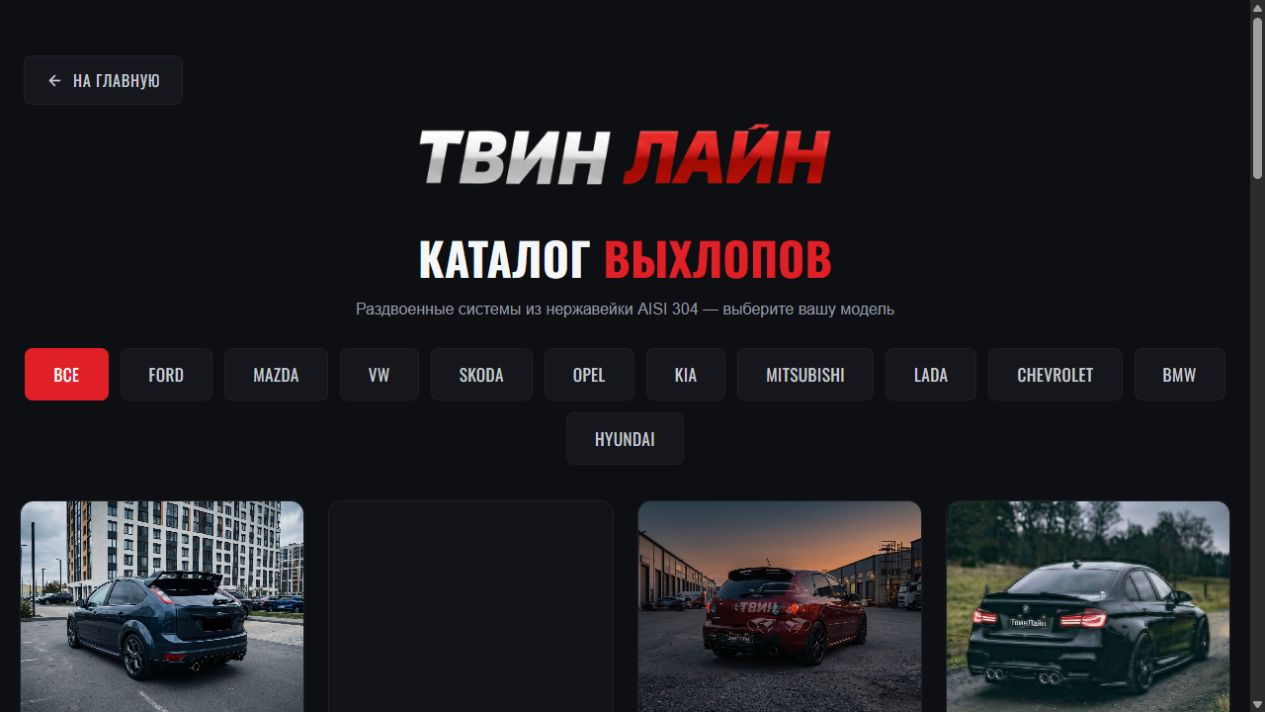
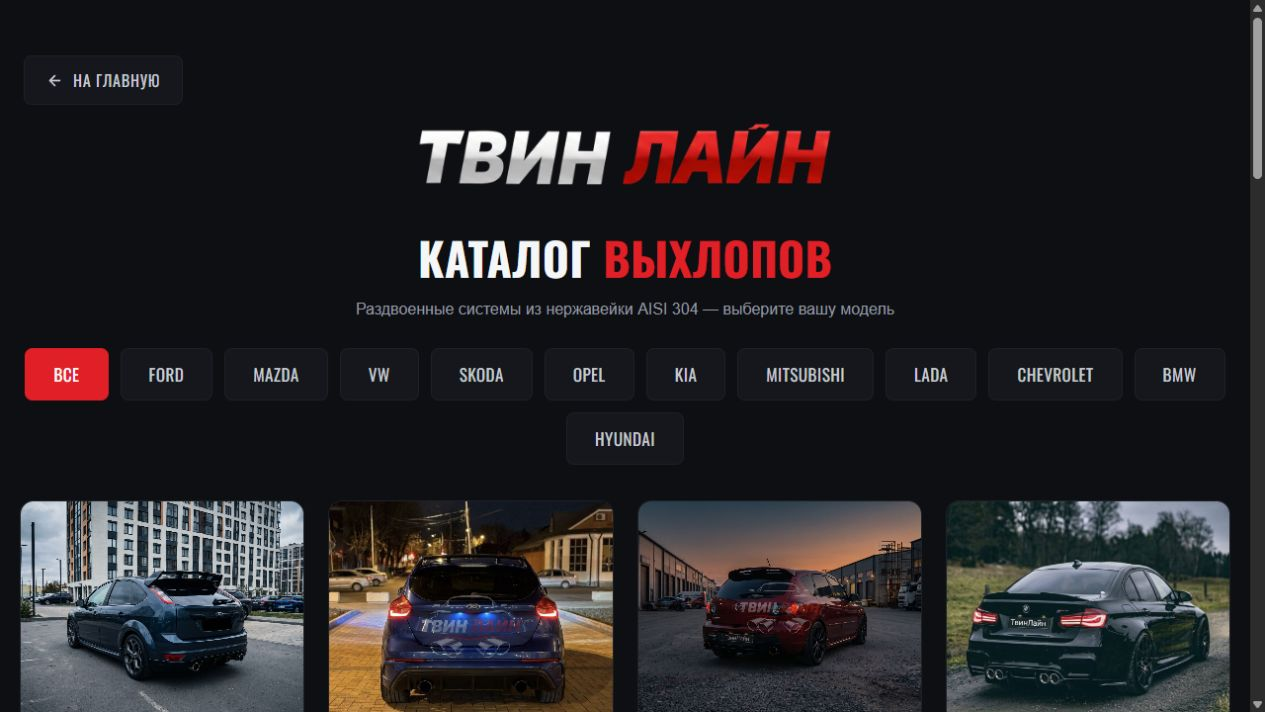
Enhance portfolio motion and contact flow

Changed region(s): [[0.2466, 0.7107, 0.4933, 1.0]]

diff --git a/src/styles.css b/src/styles.css
@@ -52,8 +52,8 @@ h1 { max-width: 11.5ch; margin-bottom: 0; font-size: clamp(2.45rem, 12vw, 7.4rem
 h1 em { position: relative; display: inline-block; color: var(--cobalt); font-style: normal; }
 h1 em::after { position: absolute; z-index: -1; right: -0.06em; bottom: -0.09em; left: -0.04em; height: 0.17em; background: var(--acid); transform: rotate(-2deg); content: ''; }
 .hero-aside { position: relative; z-index: 1; max-width: 27rem; align-self: end; }
-.hero-portrait { display: grid; grid-template-columns: 8.9rem 1fr; gap: 0.9rem; align-items: end; margin: 0 0 1.3rem; }
-.hero-portrait img { width: 8.9rem; aspect-ratio: 1; border: var(--line); border-radius: 50% 50% 10px 50%; object-fit: cover; box-shadow: 6px 6px 0 var(--coral); }
+.hero-portrait { display: grid; grid-template-columns: minmax(11.5rem, 15.5rem) 1fr; gap: 1rem; align-items: end; margin: 0 0 1.3rem; }
+.hero-portrait img { width: 100%; aspect-ratio: 4 / 5; border: var(--line); border-radius: 46% 46% 10px 46%; object-fit: cover; object-position: center 18%; box-shadow: 8px 8px 0 var(--coral); }
 .hero-portrait figcaption { display: grid; gap: 0.42rem; padding-bottom: 0.35rem; font: 600 0.62rem/1.35 var(--mono); letter-spacing: 0.04em; text-transform: uppercase; }
 .hero-portrait figcaption strong { font: 700 0.88rem/1.1 var(--display); letter-spacing: -0.06em; text-transform: none; }
 .hero-portrait figcaption span { color: var(--muted); }
@@ -66,10 +66,16 @@ h1 em::after { position: absolute; z-index: -1; right: -0.06em; bottom: -0.09em;
 .hero-signal { position: absolute; top: 24%; right: clamp(1.25rem, 8vw, 9rem); z-index: 2; display: grid; width: 7.8rem; aspect-ratio: 1; place-content: center; border: var(--line); border-radius: 50%; color: var(--milk); background: var(--ink); text-align: center; transform: rotate(10deg); box-shadow: 6px 6px 0 var(--acid); }
 .hero-signal strong { font: 800 3.6rem/0.75 var(--display); letter-spacing: -0.12em; }
 .hero-signal span { margin-top: 0.6rem; font: 600 0.52rem/1.25 var(--mono); letter-spacing: 0.08em; text-transform: uppercase; }
+.hero-stickers { position: absolute; z-index: 2; inset: 0; pointer-events: none; }
+.hero-sticker { position: absolute; display: grid; place-items: center; border: var(--line); color: var(--ink); font: 700 0.67rem/1 var(--mono); letter-spacing: 0.04em; box-shadow: 4px 4px 0 var(--ink); }
+.hero-sticker--roi { right: 2rem; bottom: 18%; width: 3.4rem; height: 3.4rem; border-radius: 50%; background: var(--acid); transform: rotate(-12deg); }
+.hero-sticker--arrow { right: 15%; bottom: 8%; width: 2.65rem; height: 2.65rem; border-radius: 8px; background: var(--milk); font: 800 1.35rem/1 var(--display); transform: rotate(9deg); }
+.hero-sticker--spark { top: 18%; left: 53%; width: 2.45rem; height: 2.45rem; border-radius: 50%; color: var(--milk); background: var(--coral); font-size: 1.2rem; transform: rotate(-16deg); }
 .hero-note { display: grid; gap: 0.28rem; align-self: end; margin-top: 3rem; padding-top: 1rem; border-top: var(--line); font: 600 0.62rem/1.4 var(--mono); letter-spacing: 0.07em; text-transform: uppercase; }
 .hero-note span { color: var(--muted); }.hero-note strong { max-width: 42ch; }
-.signal-strip { display: flex; min-height: 54px; align-items: center; overflow: hidden; border-bottom: var(--line); color: var(--milk); background: var(--ink); white-space: nowrap; }
-.signal-track { display: flex; width: max-content; align-items: center; gap: clamp(0.85rem, 2.3vw, 2rem); padding-right: clamp(0.85rem, 2.3vw, 2rem); animation: signal-marquee 24s linear infinite; }
+.signal-strip { display: flex; width: 100vw; min-height: 54px; align-items: center; margin-left: calc(50% - 50vw); overflow: hidden; border-bottom: var(--line); color: var(--milk); background: var(--ink); white-space: nowrap; }
+.signal-track { display: flex; width: max-content; align-items: stretch; animation: signal-marquee 22s linear infinite; will-change: transform; }
+.signal-group { display: flex; min-width: 100vw; align-items: center; justify-content: space-around; gap: clamp(0.85rem, 2.3vw, 2rem); padding: 0 clamp(1rem, 3vw, 3rem); }
 .signal-strip span { font: 600 clamp(0.65rem, 1.3vw, 0.84rem)/1 var(--mono); letter-spacing: 0.1em; text-transform: uppercase; }.signal-strip i { color: var(--acid); font-style: normal; }
 
 .section { padding: 5.3rem 1.25rem; }
@@ -87,9 +93,10 @@ h1 em::after { position: absolute; z-index: -1; right: -0.06em; bottom: -0.09em;
 .gallery-controls { display: grid; grid-template-columns: 2rem minmax(0, 1fr) 2rem; align-items: center; gap: 0.55rem; margin-top: 1rem; }.gallery-thumbs { display: flex; gap: 0.45rem; min-width: 0; overflow-x: auto; padding: 0.12rem 0.1rem; scrollbar-width: thin; }.gallery-arrow, .gallery-thumb { appearance: none; cursor: pointer; }.gallery-arrow { display: grid; width: 2rem; height: 2rem; place-items: center; padding: 0; border: var(--line); border-radius: 50%; color: var(--ink); background: var(--milk); font-weight: 800; transition: background 180ms ease, color 180ms ease, transform 180ms ease; }.gallery-arrow:hover { color: var(--milk); background: var(--ink); transform: rotate(-8deg); }.gallery-thumb { flex: 0 0 clamp(3.3rem, 8vw, 5.35rem); overflow: hidden; padding: 0; border: 2px solid transparent; border-radius: 4px; background: var(--paper); opacity: 0.58; transition: border-color 180ms ease, opacity 180ms ease, transform 180ms ease; }.gallery-thumb img { width: 100%; aspect-ratio: 16 / 9; object-fit: cover; }.gallery-thumb:hover, .gallery-thumb.is-active { border-color: var(--ink); opacity: 1; }.gallery-thumb:hover { transform: translateY(-3px); }.gallery-caption { margin: 0.65rem 0 0; color: var(--muted); font: 500 0.6rem/1.45 var(--mono); }
 .case-copy { align-self: center; }.case-meta { display: flex; justify-content: space-between; margin-bottom: 1.1rem; padding: 0.62rem 0; border-top: var(--line); border-bottom: var(--line-soft); color: var(--muted); font: 600 0.58rem/1.2 var(--mono); letter-spacing: 0.08em; text-transform: uppercase; }.case-copy h3, .service h3, .process-list h3 { font-family: var(--display); font-weight: 700; letter-spacing: -0.075em; }.case-copy h3 { margin-bottom: 0.9rem; font-size: clamp(1.75rem, 7vw, 3.15rem); line-height: 0.98; }.case-summary { color: #2f3237; line-height: 1.7; }.case-contribution { margin: 1rem 0 0; padding: 0.85rem 0.9rem; border-left: 5px solid var(--coral); background: var(--paper); font-size: 0.87rem; font-weight: 800; line-height: 1.55; }.delivered { margin-top: 1.8rem; }.delivered h4 { margin: 0 0 0.75rem; color: var(--cobalt); font: 600 0.62rem/1 var(--mono); letter-spacing: 0.1em; text-transform: uppercase; }.delivered ul { margin: 0; padding: 0; list-style: none; }.delivered li { display: flex; gap: 0.65rem; padding: 0.38rem 0; color: var(--muted); font-size: 0.87rem; }.delivered li::before { color: var(--coral); content: '✦'; }.case-actions { display: flex; flex-wrap: wrap; align-items: center; gap: 1.25rem; margin-top: 1.8rem; }.quiet-link { display: inline-flex; min-height: 32px; align-items: center; color: var(--muted); font-size: 0.78rem; text-decoration: underline; text-decoration-color: var(--cobalt); text-decoration-thickness: 2px; text-underline-offset: 0.3rem; }
 
-.services { border-top: var(--line); border-bottom: var(--line); background: var(--acid); }.section-heading.compact { max-width: 54rem; }.service-list { display: grid; border-top: var(--line); }.service { display: grid; grid-template-columns: 2.6rem 1fr; gap: 0 0.65rem; padding: 1.65rem 0; border-top: var(--line); }.service:first-child { border-top: 0; }.service > span, .process-list > li > span { color: var(--coral); font: 600 0.62rem/1.1 var(--mono); letter-spacing: 0.1em; }.service h3 { margin-bottom: 0.65rem; font-size: 1.5rem; line-height: 1; }.service p { grid-column: 2; max-width: 29rem; margin-bottom: 0; font-size: 0.89rem; line-height: 1.65; }
+.services { border-top: var(--line); border-bottom: var(--line); background: var(--paper); }.section-heading.compact { max-width: 54rem; }.service-list { display: grid; border-top: var(--line); }.service { display: grid; grid-template-columns: 2.6rem 1fr; gap: 0 0.65rem; padding: 1.65rem 0; border-top: var(--line); }.service:first-child { border-top: 0; }.service > span, .process-list > li > span { color: var(--coral); font: 600 0.62rem/1.1 var(--mono); letter-spacing: 0.1em; }.service h3 { margin-bottom: 0.65rem; font-size: 1.5rem; line-height: 1; }.service p { grid-column: 2; max-width: 29rem; margin-bottom: 0; font-size: 0.89rem; line-height: 1.65; }
 .process { background: var(--paper); border-bottom: var(--line); }.process-list { margin: 0; padding: 0; list-style: none; }.process-list li { display: grid; grid-template-columns: 2.6rem 1fr; gap: 0.65rem; padding: 1.45rem 0; border-top: var(--line); }.process-list h3 { margin-bottom: 0.5rem; font-size: 1.25rem; line-height: 1; }.process-list p { max-width: 34rem; margin-bottom: 0; color: var(--muted); font-size: 0.9rem; line-height: 1.65; }
 .contact { position: relative; overflow: hidden; border-top: var(--line); color: var(--milk); background: var(--ink); }.contact::before { position: absolute; right: -5rem; bottom: -6rem; width: 19rem; aspect-ratio: 1; border-radius: 50%; background: var(--cobalt); content: ''; }.contact .eyebrow { color: var(--acid); }.contact h2 { position: relative; z-index: 1; max-width: 15ch; }.contact-copy { position: relative; z-index: 1; max-width: 34rem; margin-bottom: 2rem; color: #c4c5c7; line-height: 1.7; }.contact-button { position: relative; z-index: 1; display: inline-flex; min-height: 54px; align-items: center; gap: 0.75rem; padding: 0 1.25rem; border: var(--line); border-radius: 999px; color: var(--ink); background: var(--acid); box-shadow: 5px 5px 0 var(--coral); font-size: 0.86rem; font-weight: 800; transition: transform 180ms ease, box-shadow 180ms ease; }.contact-button:hover { box-shadow: 0 0 0 var(--coral); transform: translate(5px, 5px); }.contact-button.is-disabled { cursor: not-allowed; opacity: 0.58; }.contact-todo { position: relative; z-index: 1; display: block; margin-top: 0.8rem; color: #a6a8aa; font-size: 0.66rem; }
+.floating-contact { position: fixed; right: clamp(1rem, 3vw, 2.5rem); bottom: clamp(1rem, 3vw, 2.25rem); z-index: 40; display: inline-flex; min-height: 48px; align-items: center; gap: 0.55rem; padding: 0.65rem 0.9rem; border: var(--line); border-radius: 999px; color: var(--milk); background: var(--ink); box-shadow: 5px 5px 0 var(--coral); font-size: 0.76rem; font-weight: 800; transition: transform 180ms ease, box-shadow 180ms ease; }.floating-contact:hover { box-shadow: 0 0 0 var(--coral); transform: translate(5px, 5px); }.floating-contact svg { width: 16px; }.floating-contact.is-disabled { display: none; }.floating-contact-dot { width: 0.55rem; height: 0.55rem; border-radius: 50%; background: var(--acid); box-shadow: 0 0 0 0 color-mix(in srgb, var(--acid) 56%, transparent); animation: contact-ping 2.1s ease-out infinite; }
 .footer { display: flex; justify-content: space-between; gap: 1rem; padding: 1.35rem 1.25rem; color: var(--milk); background: var(--ink); font: 600 0.59rem/1.35 var(--mono); letter-spacing: 0.08em; text-transform: uppercase; }.footer a { color: var(--acid); }
 a:focus-visible, .is-disabled:focus-visible, .gallery-arrow:focus-visible, .gallery-thumb:focus-visible { outline: 3px solid var(--cobalt); outline-offset: 4px; }
 
@@ -97,7 +104,7 @@ a:focus-visible, .is-disabled:focus-visible, .gallery-arrow:focus-visible, .gall
 .motion-ready [data-reveal].is-visible { opacity: 1; transform: translateY(0); }
 .motion-ready .hero-copy { transition-delay: 80ms; }.motion-ready .hero-aside { transition-delay: 240ms; }.motion-ready .hero-note { transition-delay: 380ms; }
 .motion-ready .hero-signal { transform: rotate(10deg) translateY(28px) scale(.82); transition-delay: 170ms; }.motion-ready .hero-signal.is-visible { transform: rotate(10deg) translateY(0) scale(1); }
-.motion-ready .hero::before { animation: blue-drift 10s ease-in-out infinite; }.motion-ready .hero-signal.is-visible { animation: signal-float 4s ease-in-out 900ms infinite; }.motion-ready .hero-portrait img { animation: portrait-pop 900ms cubic-bezier(.16, 1, .3, 1) 360ms both; }
+.motion-ready .hero::before { animation: blue-drift 10s ease-in-out infinite; }.motion-ready .hero-signal.is-visible { animation: signal-float 4s ease-in-out 900ms infinite; }.motion-ready .hero-portrait img { animation: portrait-pop 900ms cubic-bezier(.16, 1, .3, 1) 360ms both; }.motion-ready .hero-sticker--roi { animation: sticker-drift 5.2s ease-in-out infinite; }.motion-ready .hero-sticker--arrow { animation: sticker-drift 4.4s ease-in-out 500ms infinite reverse; }.motion-ready .hero-sticker--spark { animation: sticker-spin 7s linear infinite; }
 .motion-ready .case[data-reveal] { transition-delay: 80ms; }.motion-ready .case:nth-child(2n)[data-reveal] { transition-delay: 150ms; }
 .browser:hover { transform: perspective(1000px) translate(-5px, -5px) rotate(-0.5deg); }.case:nth-child(even) .browser:hover { transform: perspective(1000px) translate(-5px, -5px) rotate(0.5deg); }
 
@@ -105,6 +112,9 @@ a:focus-visible, .is-disabled:focus-visible, .gallery-arrow:focus-visible, .gall
 @keyframes blue-drift { 0%, 100% { transform: translate3d(0, 0, 0) scale(1); } 50% { transform: translate3d(-2.5%, 2%, 0) scale(1.045); } }
 @keyframes signal-float { 0%, 100% { transform: rotate(10deg) translateY(0) scale(1); } 50% { transform: rotate(5deg) translateY(-10px) scale(1.03); } }
 @keyframes portrait-pop { from { transform: rotate(-5deg) scale(.75); opacity: 0; } to { transform: rotate(0) scale(1); opacity: 1; } }
+@keyframes sticker-drift { 0%, 100% { translate: 0 0; } 50% { translate: 0 -12px; } }
+@keyframes sticker-spin { to { rotate: 360deg; } }
+@keyframes contact-ping { 0% { box-shadow: 0 0 0 0 color-mix(in srgb, var(--acid) 65%, transparent); } 70%, 100% { box-shadow: 0 0 0 9px transparent; } }
 
 @media (min-width: 720px) {
   .header, .hero, .section, .footer { padding-right: 3rem; padding-left: 3rem; }
@@ -120,5 +130,5 @@ a:focus-visible, .is-disabled:focus-visible, .gallery-arrow:focus-visible, .gall
 @media (min-width: 1100px) {
   .header, .hero, .section, .footer { padding-right: clamp(4rem, 7vw, 8rem); padding-left: clamp(4rem, 7vw, 8rem); }.header { min-height: 84px; }.hero { min-height: calc(100vh - 84px); padding-top: 2.2rem; padding-bottom: 2rem; }.hero-copy { margin: 2.5rem 0; }.hero-signal { right: 7%; width: 9.7rem; }.hero-signal strong { font-size: 4.5rem; }.section { padding-top: 8rem; padding-bottom: 8rem; }.positioning { padding-top: 7rem; padding-bottom: 5rem; }.case-list { gap: 9rem; }.process { display: grid; grid-template-columns: minmax(0, 0.75fr) minmax(28rem, 1fr); gap: 6rem; }.process .section-heading { display: block; align-self: start; position: sticky; top: 7rem; }
 }
-@media (max-width: 420px) { .hero-signal { top: 7rem; width: 6.5rem; }.hero-signal strong { font-size: 3rem; }.hero-copy { margin-top: 4.5rem; }.header-contact { font-size: 0; gap: 0; }.header-contact svg { width: 18px; }.hero-portrait { grid-template-columns: 7.5rem 1fr; }.hero-portrait img { width: 7.5rem; } }
+@media (max-width: 420px) { .hero-signal { top: 7rem; width: 6.5rem; }.hero-signal strong { font-size: 3rem; }.hero-copy { margin-top: 4.5rem; }.header-contact { font-size: 0; gap: 0; }.header-contact svg { width: 18px; }.hero-portrait { grid-template-columns: minmax(10.5rem, 12rem) 1fr; }.hero-sticker--roi { right: 1rem; bottom: 19%; }.hero-sticker--arrow { right: 1.7rem; bottom: 10%; }.hero-sticker--spark { left: 50%; }.floating-contact { right: 0.85rem; bottom: 0.85rem; } }
 @media (prefers-reduced-motion: reduce) { html { scroll-behavior: auto; } *, *::before, *::after { scroll-behavior: auto !important; transition-duration: 0.01ms !important; animation-duration: 0.01ms !important; animation-iteration-count: 1 !important; } }

diff --git a/src/App.jsx b/src/App.jsx
@@ -160,6 +160,11 @@ function App() {
             <strong>6</strong>
             <span>лет<br />в маркетинге</span>
           </div>
+          <div className="hero-stickers" aria-hidden="true">
+            <span className="hero-sticker hero-sticker--roi">ROI</span>
+            <span className="hero-sticker hero-sticker--arrow">↗</span>
+            <span className="hero-sticker hero-sticker--spark">✦</span>
+          </div>
           <div className="hero-note" data-reveal>
             <span>От маркетинговой стратегии до запуска:</span>
             <strong>не просто экран, а сайт, встроенный в продажи.</strong>
@@ -168,8 +173,12 @@ function App() {
 
         <div className="signal-strip" aria-hidden="true">
           <div className="signal-track">
-            <span>Стратегия</span><i>✦</i><span>Оффер</span><i>✦</i><span>Сайт</span><i>✦</i><span>Запуск</span><i>✦</i><span>Заявки</span>
-            <span>Стратегия</span><i>✦</i><span>Оффер</span><i>✦</i><span>Сайт</span><i>✦</i><span>Запуск</span><i>✦</i><span>Заявки</span>
+            <div className="signal-group">
+              <span>Стратегия</span><i>✦</i><span>Оффер</span><i>✦</i><span>Сайт</span><i>✦</i><span>Запуск</span><i>✦</i><span>Заявки</span>
+            </div>
+            <div className="signal-group">
+              <span>Стратегия</span><i>✦</i><span>Оффер</span><i>✦</i><span>Сайт</span><i>✦</i><span>Запуск</span><i>✦</i><span>Заявки</span>
+            </div>
           </div>
         </div>
 
@@ -273,6 +282,11 @@ function App() {
           {!TELEGRAM_URL && <small className="contact-todo">Точная ссылка на Telegram будет добавлена перед публикацией.</small>}
         </section>
       </main>
+
+      <TelegramLink className="floating-contact">
+        <span className="floating-contact-dot" aria-hidden="true" />
+        Написать мне <ArrowIcon />
+      </TelegramLink>
 
       <footer className="footer">
         <span>Валерий · сайты и digital</span>
